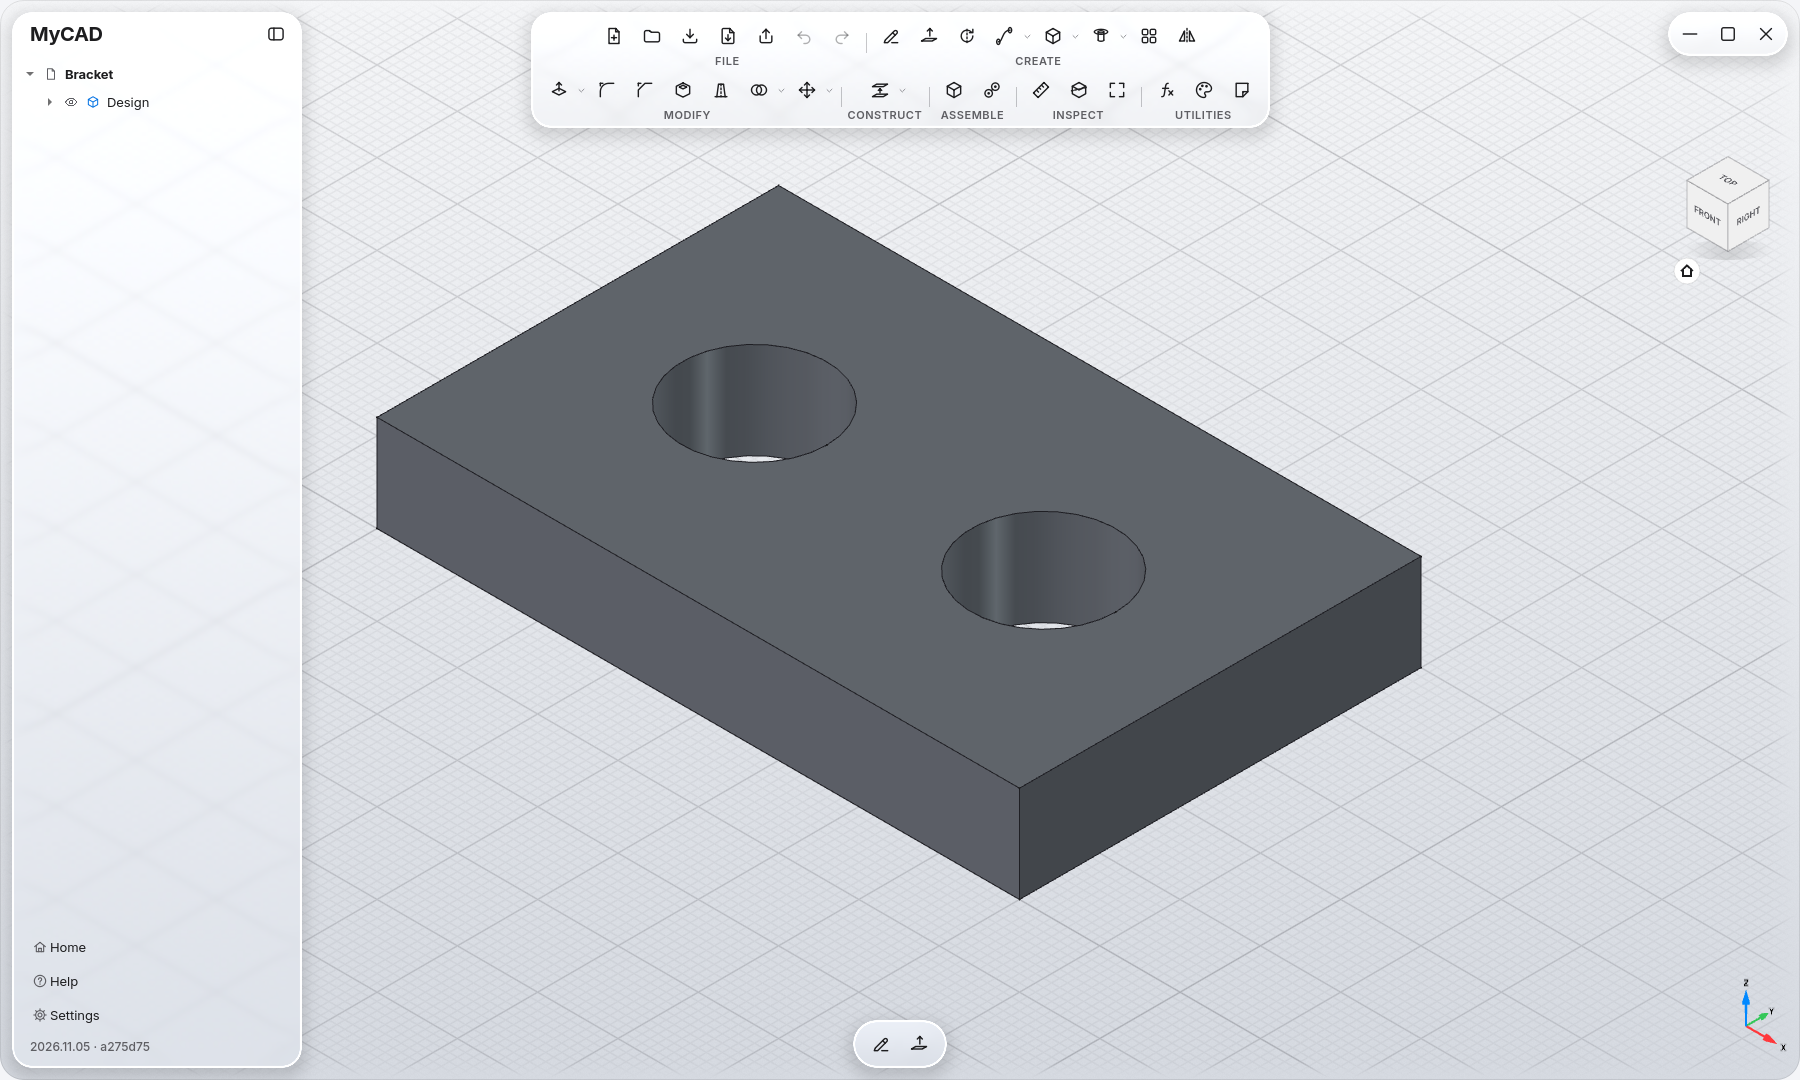
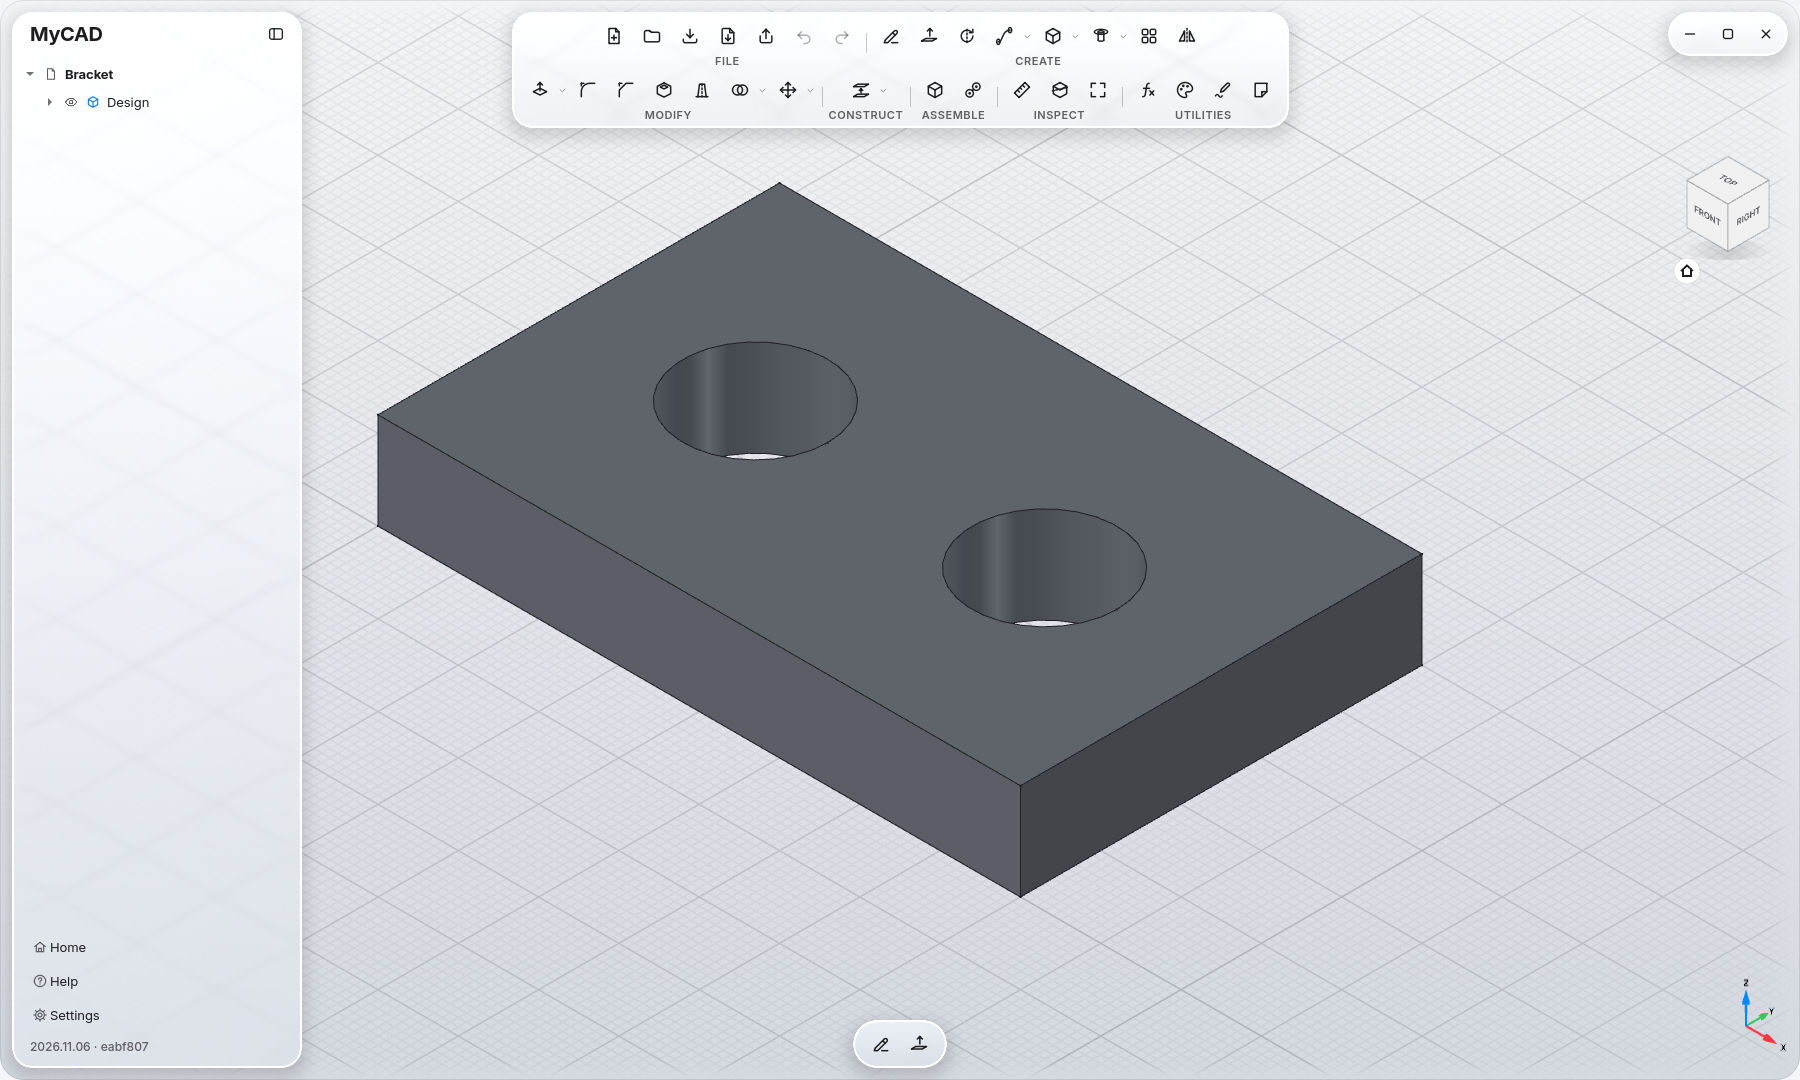
README: Scribbles mit zwei Bildern (Transparentpapier, Blatt in 3D)
Abschnitt "Ideas first. Scribble." neu gegliedert, mit Formen, Füllen
und Transparentpapier, dazu eine Zeile in den Tech specs. Die Bilder
erzeugt tools/readme_images.py; workspace.png und notes.png sind mit
dem neuen Scribble-Knopf in der Toolbar neu aufgenommen.

diff --git a/tools/readme_images.py b/tools/readme_images.py
@@ -1,6 +1,7 @@
 # SPDX-License-Identifier: LGPL-2.1-or-later
-"""README-Bilder neu erzeugen: docs/images/workspace.png, notes.png und start.png. Läuft in MyCAD, mit eigenem Home:
+"""README-Bilder neu erzeugen: docs/images/workspace.png, notes.png, scribble.png, scribble-3d.png und start.png. Läuft in MyCAD, mit eigenem Home:
     MYCAD_HOME=/tmp/readme tests/gui/run.sh tools/readme_images.py /tmp/readme/log"""
+import math
 import os
 import sys
 
@@ -79,6 +80,90 @@ def show_note_in_browser():
         tree.findItems(label, QtCore.Qt.MatchExactly | QtCore.Qt.MatchRecursive)[0].setExpanded(True)
 
 
+# Scribbles: Striche direkt in die Eigenschaften (wie sie die Werkzeuge speichern), damit das Bild genau so wird
+INK, BLUE, RED, GREEN, YELLOW = (0x1D / 255, 0x1D / 255, 0x1F / 255), (0, 0x88 / 255, 1), (1, 0x38 / 255, 0x3C / 255), \
+    (0x34 / 255, 0xC7 / 255, 0x59 / 255), (1, 0xCC / 255, 0)
+PENCIL, PEN, MARKER = 0, 1, 2
+FREE, LINE, CIRCLE, RECT, POLYGON, ELLIPSE, FILL = range(7)
+
+
+def circle(cx, cy, r, n=96):
+    return [(cx + r * math.cos(2 * math.pi * i / n), cy + r * math.sin(2 * math.pi * i / n)) for i in range(n + 1)]
+
+
+def arrow(a, b, head=3.0):
+    """wie das Pfeil-Werkzeug: Ende, Spitze, Flügel, Flügel, Spitze"""
+    length = math.dist(a, b); ux, uy = (b[0] - a[0]) / length, (b[1] - a[1]) / length
+    bx, by, w = b[0] - ux * head, b[1] - uy * head, head * 0.55
+    return [a, b, (bx - uy * w, by + ux * w), (bx + uy * w, by - ux * w), b]
+
+
+def wobble(points, amount=0.25):
+    """Hand-Strich: leicht zittrig, aber gleichmäßig"""
+    return [(x + amount * math.sin(i * 1.7), y + amount * math.cos(i * 1.3)) for i, (x, y) in enumerate(points)]
+
+
+def draw(scribble, sheet, strokes):
+    """strokes: (Punkte auf dem Blatt, Breite mm, Werkzeug, Form, Farbe)"""
+    normal = sheet.Rotation.multVec(App.Vector(0, 0, 1))
+    pts, widths, counts, tools, kinds, colors = [], [], [], [], [], []
+    for points, width, tool, kind, color in strokes:
+        pts += [sheet.multVec(App.Vector(x, y, 0)) for x, y in points]
+        widths += [width] * len(points)
+        counts.append(len(points)); tools.append(tool); kinds.append(kind)
+        colors.append(tuple(float(c) for c in color) + ({PENCIL: 0.8, PEN: 1.0, MARKER: 0.35}[tool],))
+    scribble.Sheet = sheet
+    scribble.Points = pts; scribble.Widths = widths; scribble.Tools = tools; scribble.Kinds = kinds
+    scribble.Colors = colors; scribble.Normals = [normal] * len(counts)
+    scribble.Counts = counts  # zuletzt: erst dann passen alle Listen zusammen
+
+
+def editing_scribble():
+    return Gui.ActiveDocument.getInEdit().Object
+
+
+def slot_idea():
+    """Transparentpapier über dem Bracket, von oben: Ideen direkt auf das Teil gezeichnet"""
+    [o for o in doc().Objects if o.TypeId == "Design::Note"][0].Visibility = False
+    s = editing_scribble(); s.Label = "Slot idea"; s.Tracing = True
+    slot = [(30, 19), (50, 19), (50, 31), (30, 31), (30, 19)]
+    draw(s, App.Placement(), [
+        (slot, 0, MARKER, FILL, BLUE),
+        (slot, 0.3, PEN, RECT, INK),
+        (circle(22, 25, 13), 0.3, PEN, CIRCLE, RED),
+        (arrow((3, 46), (12.5, 34.5)), 0.3, PEN, POLYGON, INK),  # Pfeil auf das Loch
+        (wobble([(80 - 10 + 10 * math.cos(t / 20 * math.pi / 2), 50 - 10 + 10 * math.sin(t / 20 * math.pi / 2)) for t in range(21)], 0.15), 0.35, PEN, FREE, GREEN),
+        (wobble([(80 - 10 + 10 * math.cos(t / 20 * math.pi / 2), 10 - 10 * math.sin(t / 20 * math.pi / 2)) for t in range(21)], 0.15), 0.35, PEN, FREE, GREEN),
+        (wobble([(x, 50) for x in range(4, 70, 3)], 0.1), 1.6, MARKER, FREE, YELLOW),
+        ([(30, 36), (50, 36)], 0.25, PENCIL, LINE, INK),  # Maß über dem Langloch
+        ([(30, 34.5), (30, 37.5)], 0.25, PENCIL, LINE, INK),
+        ([(50, 34.5), (50, 37.5)], 0.25, PENCIL, LINE, INK),
+    ])
+    v = Gui.ActiveDocument.ActiveView
+    v.viewTop(); Gui.SendMsgToActiveView("ViewFit"); Gui.runCommand("Std_ViewZoomOut")
+
+
+def wall_idea():
+    """Zweites Blatt steht auf der Platte (Blatt umstellen): eine Wand mit Loch, im Raum gesehen"""
+    [o for o in doc().Objects if o.Label == "Slot idea"][0].Visibility = False  # liegt unter der Platte
+    s = editing_scribble(); s.Label = "Wall idea"
+    wall = [(0, 0), (80, 0), (80, 28), (0, 28), (0, 0)]
+    draw(s, App.Placement(App.Vector(0, 25, 12), App.Rotation(App.Vector(1, 0, 0), 90)), [
+        (wall, 0, MARKER, FILL, GREEN),
+        (wall, 0.35, PEN, RECT, INK),
+        (circle(40, 15, 7), 0, MARKER, FILL, BLUE),
+        (circle(40, 15, 7), 0.35, PEN, CIRCLE, INK),
+    ])
+    v = Gui.ActiveDocument.ActiveView
+    v.viewIsometric(); Gui.SendMsgToActiveView("ViewFit"); Gui.runCommand("Std_ViewZoomOut")
+
+
+def show_scribbles_in_browser():
+    tree = visible(QtWidgets.QTreeWidget)[0]
+    for label in ("Design", "Scribbles"):
+        tree.findItems(label, QtCore.Qt.MatchExactly | QtCore.Qt.MatchRecursive)[0].setExpanded(True)
+
+
 def clear_focus():
     widget = QtWidgets.QApplication.focusWidget()
     if widget:
@@ -105,6 +190,15 @@ in_order([
     ("type", type_note), wait,
     ("browser", show_note_in_browser), wait,
     ("notes", lambda: picture("notes")),
+    ("scribble", lambda: Gui.runCommand("Design_Scribble")), wait,
+    ("slot idea", slot_idea), wait,
+    ("scribble browser", show_scribbles_in_browser), wait,
+    ("scribble picture", lambda: picture("scribble")),
+    ("finish slot", lambda: Gui.runCommand("Design_ScribbleFinish")), wait,
+    ("scribble 2", lambda: Gui.runCommand("Design_Scribble")), wait,
+    ("wall idea", wall_idea), wait, wait,
+    ("scribble 3d", lambda: picture("scribble-3d")),
+    ("finish wall", lambda: Gui.runCommand("Design_ScribbleFinish")), wait,
     ("home", home), wait, wait,
     ("focus", clear_focus), wait,
     ("start", lambda: picture("start")),

diff --git a/README.md b/README.md
@@ -77,13 +77,29 @@ Closed a note? It's still under **Notes** in the browser, double-click to open i
 
 ## Ideas first. Scribble.
 
-Click **Scribble** in the toolbar and a sheet of paper fills the view. Grab your pen tablet and draw: **Pencil**, **Fineliner** and **Marker**, in five colors. Press harder and the line gets thicker. Flip the pen to erase.
+<div align="center">
 
-Hold the pen still at the end of a stroke and it straightens out into a clean line, circle or rectangle. Or pick a shape under Shapes (line, arrow, rectangle, triangle, hexagon, circle, ellipse) and just drag it out. **Fill** colours an area: tap inside a shape, or draw around any area. Lines lock to horizontal, vertical and to the ends of your other strokes.
+![Ideas drawn on tracing paper over a bracket in MyCAD](docs/images/scribble.png)
 
-Then go 3D. **Move Sheet** lays the paper onto any face of your model, or stands it up along a line you drew, so you can sketch a frame in space. Orbit, and the paper fades so you can see your strokes and your model together. **Tracing Paper** lets you draw right over a body.
+</div>
 
-Happy with an idea? **Convert to Sketch** turns your lines, circles and rectangles into a real sketch, joined and ready to dimension and extrude. Your scribbles stay in the design under **Scribbles** in the browser.
+Click **Scribble** in the toolbar and a sheet of paper fills the view. Grab your pen tablet and draw with **Pencil**, **Fineliner** or **Marker** in five colors. Press harder and the line gets thicker. Flip the pen over to erase.
+
+Hold the pen still at the end of a stroke and it straightens into a clean line, circle or rectangle. Lines snap to horizontal, vertical and to the ends of your other strokes.
+
+Under **Shapes** you drag out a line, arrow, rectangle, triangle, hexagon, circle or ellipse. **Fill** colors an area: tap inside a shape, or draw around the part you want filled.
+
+**Tracing Paper** lets the model show through, so you can draw right on top of a part.
+
+<div align="center">
+
+![A scribbled wall standing upright on a bracket in MyCAD](docs/images/scribble-3d.png)
+
+</div>
+
+Then go 3D. **Move Sheet** lays the paper onto any face of your model, or stands it up along a line you drew, so you can sketch a wall or a rib right where it goes. Orbit around it and the paper fades, so you see your strokes and the model together.
+
+Happy with an idea? **Convert to Sketch** turns your lines, circles, ellipses and other shapes into a real sketch, joined up and ready to dimension and extrude. Your scribbles stay in the design under **Scribbles** in the browser.
 
 <br>
 
@@ -137,6 +153,7 @@ Bodies can also have real textures: six woods (**Oak**, **Walnut**, **Maple**, *
 | **Sketch** | 12 drawing tools, 7 modify tools, 9 constraints, one dimension tool |
 | **Solids** | 16 create, 12 modify and 6 construction tools |
 | **Notes** | Saved in the design, lines ending in `=` are calculated |
+| **Scribbles** | Pen tablet with pressure, 7 shapes, fill, sheets in 3D, convert to sketch |
 | **Export** | STL · 3MF · STEP · DXF (sketches) |
 | **Import** | STEP · DXF · SVG |
 | **File format** | `.mycad` (ZIP with preview image, same content as FreeCAD's FCStd); `.FCStd` files open too |
